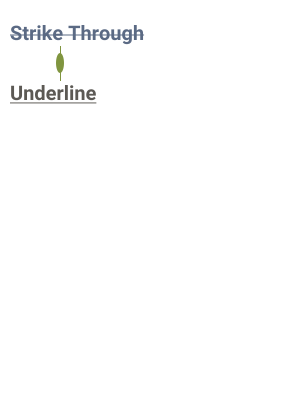
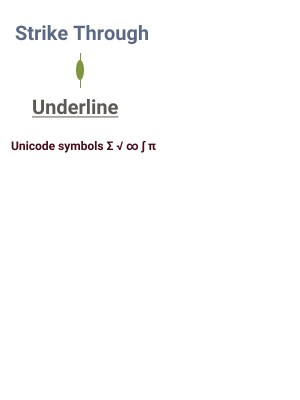
Tests: check that SVG with surrogate unicode characters is correctly generated

Changed region(s): [[0.03, 0.06, 0.51, 0.3], [0.03, 0.33, 0.54, 0.39]]

diff --git a/echosvg-test/src/test/java/io/sf/carte/echosvg/svggen/test/FontDecoration.java b/echosvg-test/src/test/java/io/sf/carte/echosvg/svggen/test/FontDecoration.java
@@ -55,6 +55,9 @@ public class FontDecoration implements Painter {
 
 		// Set default font
 		g.setFont(new Font(TestFonts.FONT_FAMILY_SANS1, Font.BOLD, 12));
+		g.setPaint(new Color(0x450d1a));
+
+		g.drawString("Unicode symbols \u03a3 \u221a \u221e \u222b \u03c0", 11, 150);
 
 		// Create a font with the desired attributes, including STRIKETHROUGH
 		Map<TextAttribute, Object> attributes = new HashMap<>();
@@ -88,35 +91,33 @@ public class FontDecoration implements Painter {
 		g.setFont(fontST);
 		g.setPaint(stColor);
 		// Draw a string
-		g.drawString("Strike Through", 10, 40);
+		g.drawString("Strike Through", 15, 40);
 
 		/*
 		 * Draw some figure with another non-sRGB color
 		 */
-		Color lColor;
 		// Use the ITU Rec bt.2020 color space
 		ICC_ColorSpace cs = StandardColorSpaces.getRec2020();
 		float[] comps = { .55f, .6f, .34f };
-		lColor = new Color(cs, comps, 1f);
+		Color lColor = new Color(cs, comps, 1f);
 
 		// Now draw with the new color
 		g.setPaint(lColor);
-		g.draw(new Line2D.Float(60, 46, 60, 80));
-		g.fill(new Ellipse2D.Float(56, 53, 8, 20));
+		g.draw(new Line2D.Float(80, 53, 80, 87));
+		g.fill(new Ellipse2D.Float(76, 60, 8, 20));
 
 		// Prepare a new color
-		Color ulColor;
 		// Get the P3 color space
 		ICC_ColorSpace csP3 = StandardColorSpaces.getDisplayP3();
 		comps = new float[] { .36f, .35f, .33f };
-		ulColor = new Color(csP3, comps, 1f);
+		Color ulColor = new Color(csP3, comps, 1f);
 
 		// Now draw with the new color and the UNDERLINE font
 		g.setPaint(ulColor);
 		g.setFont(fontUL);
 		g.translate(0, 30);
 		// Draw a new string
-		g.drawString("Underline", 10, 70);
+		g.drawString("Underline", 32, 84);
 	}
 
 }

diff --git a/README.md b/README.md
@@ -4,9 +4,7 @@
 handle images in the Scalable Vector Graphics (SVG) format for various purposes,
 such as viewing, generation or manipulation.
 
- Thanks to its usage of the CSS4J style parser, supports level 4 CSS selectors
-and color values (including colors with alpha channel) as well as the Level 5
-`color-mix()` function.
+ EchoSVG supports most of modern CSS, and is partly compatible with SVG2.
 
 This document mostly contains information of interest to developers, like how to
 build from source or run tests. If you want general information (like how to use
